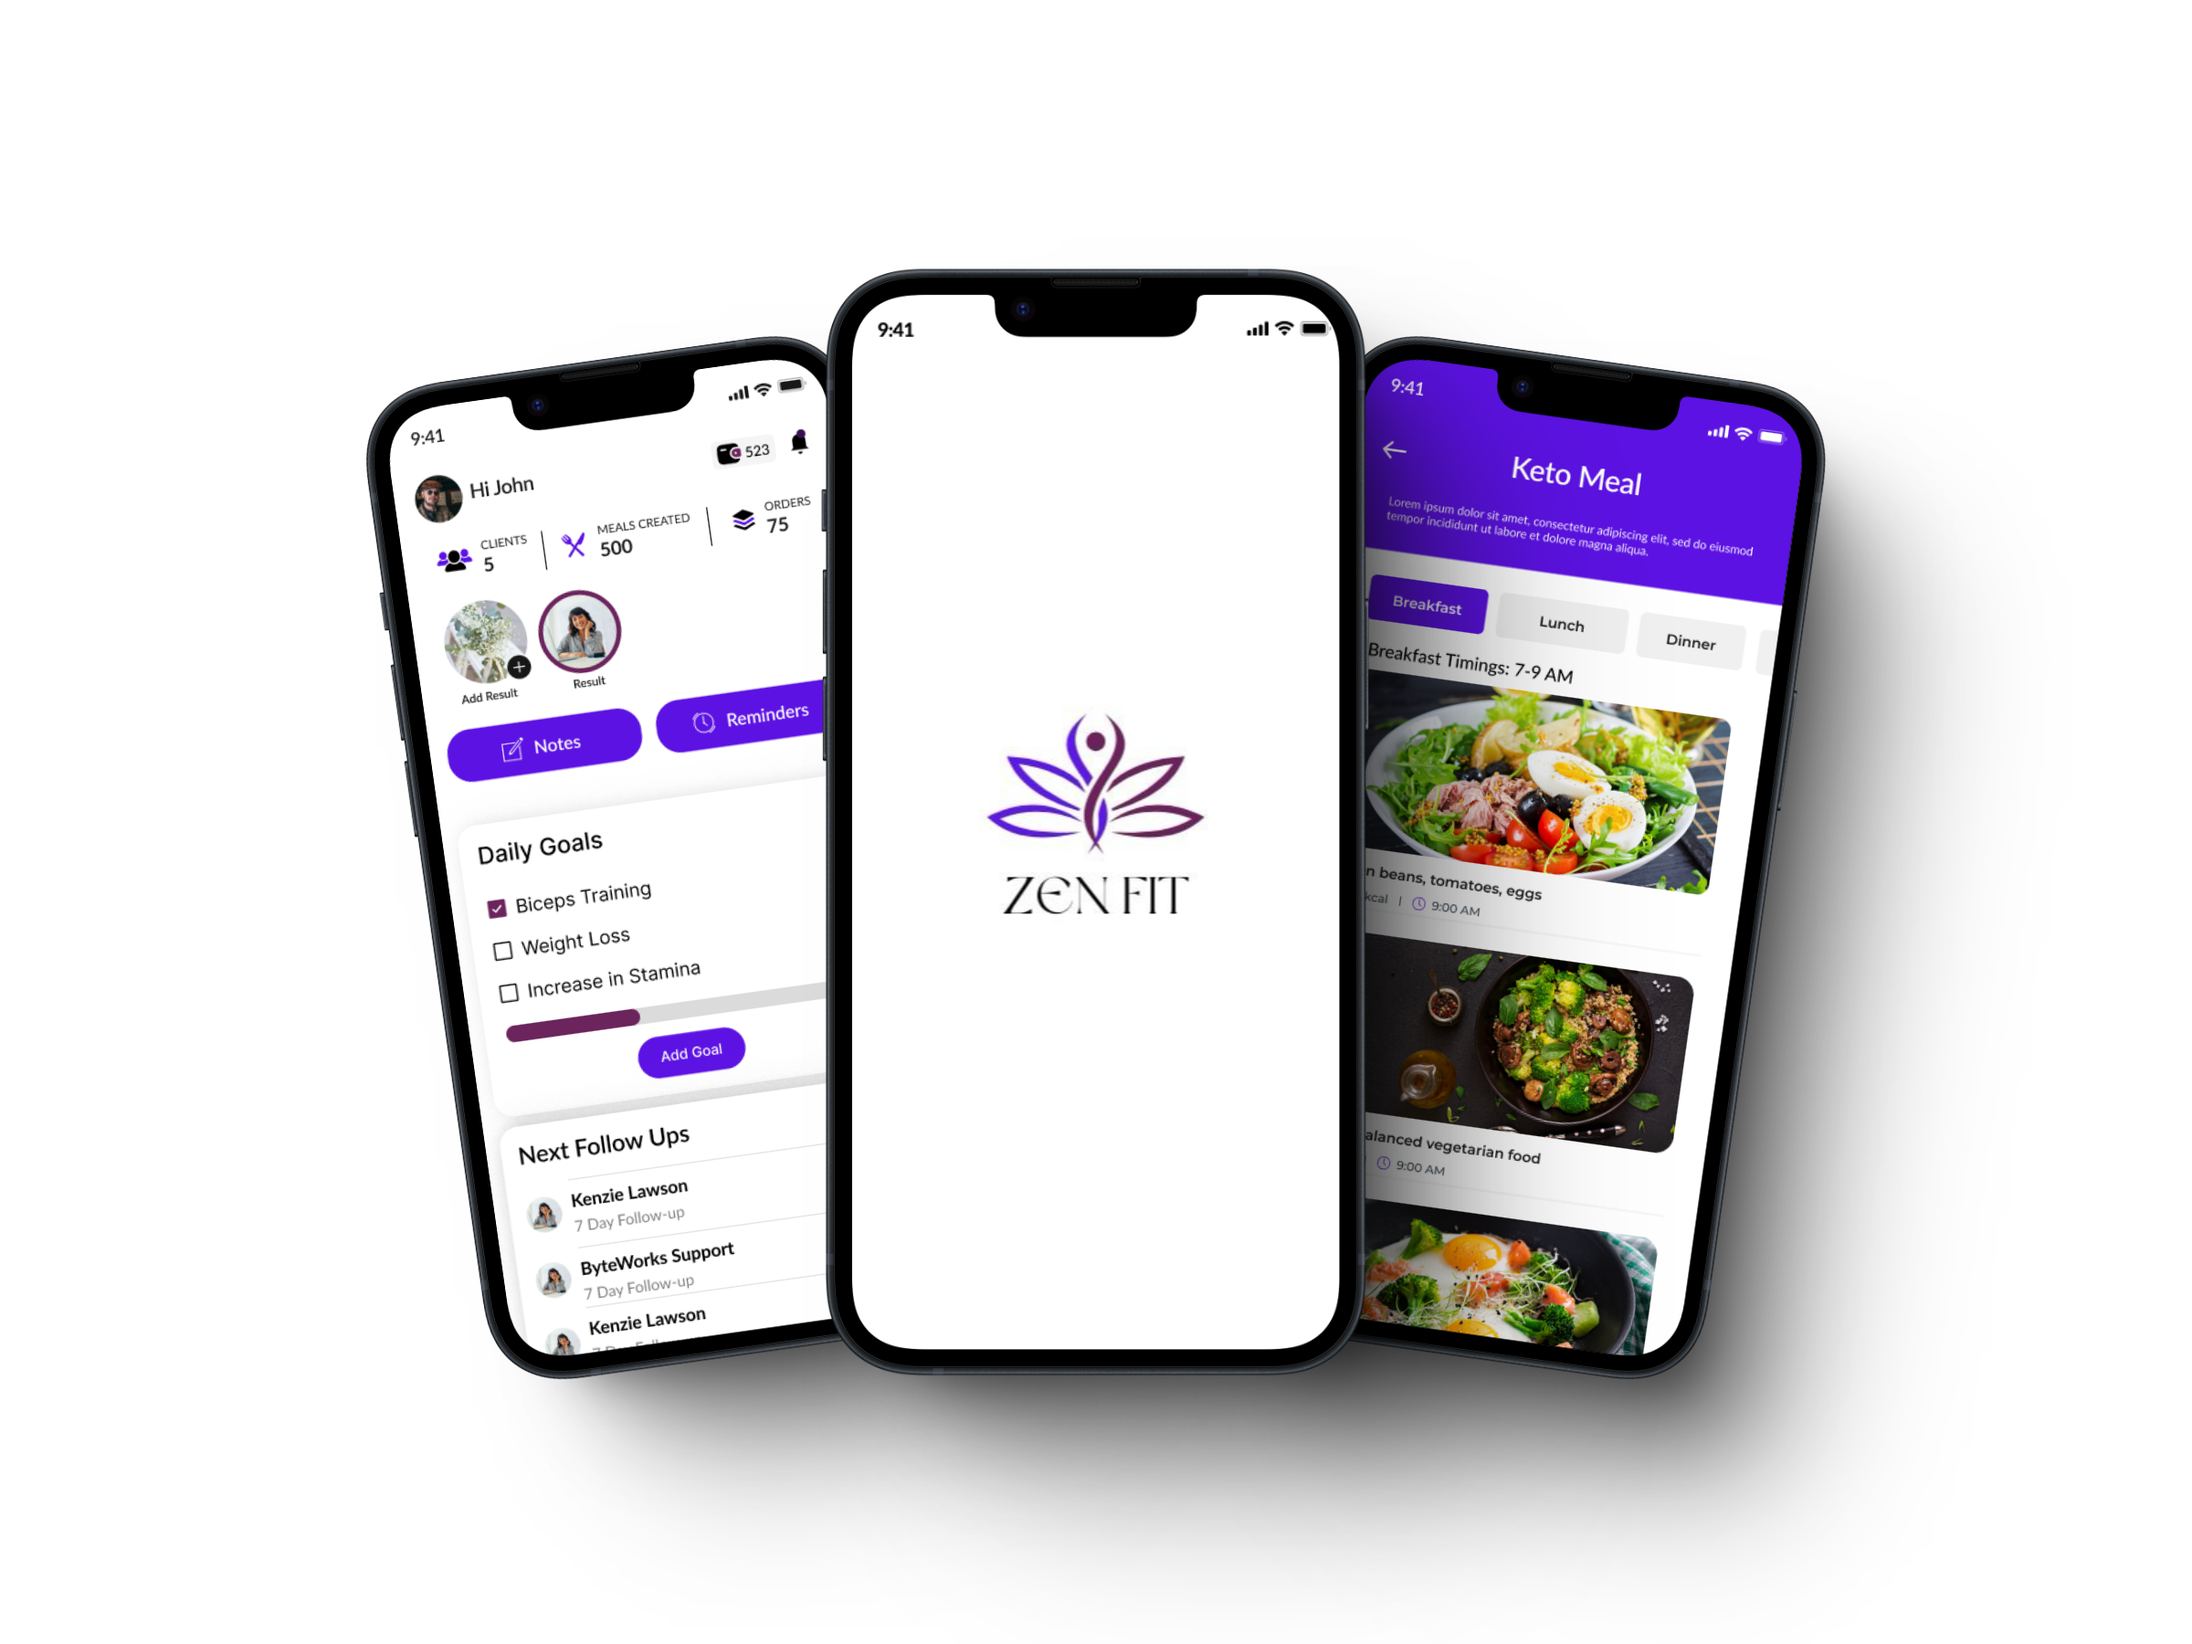
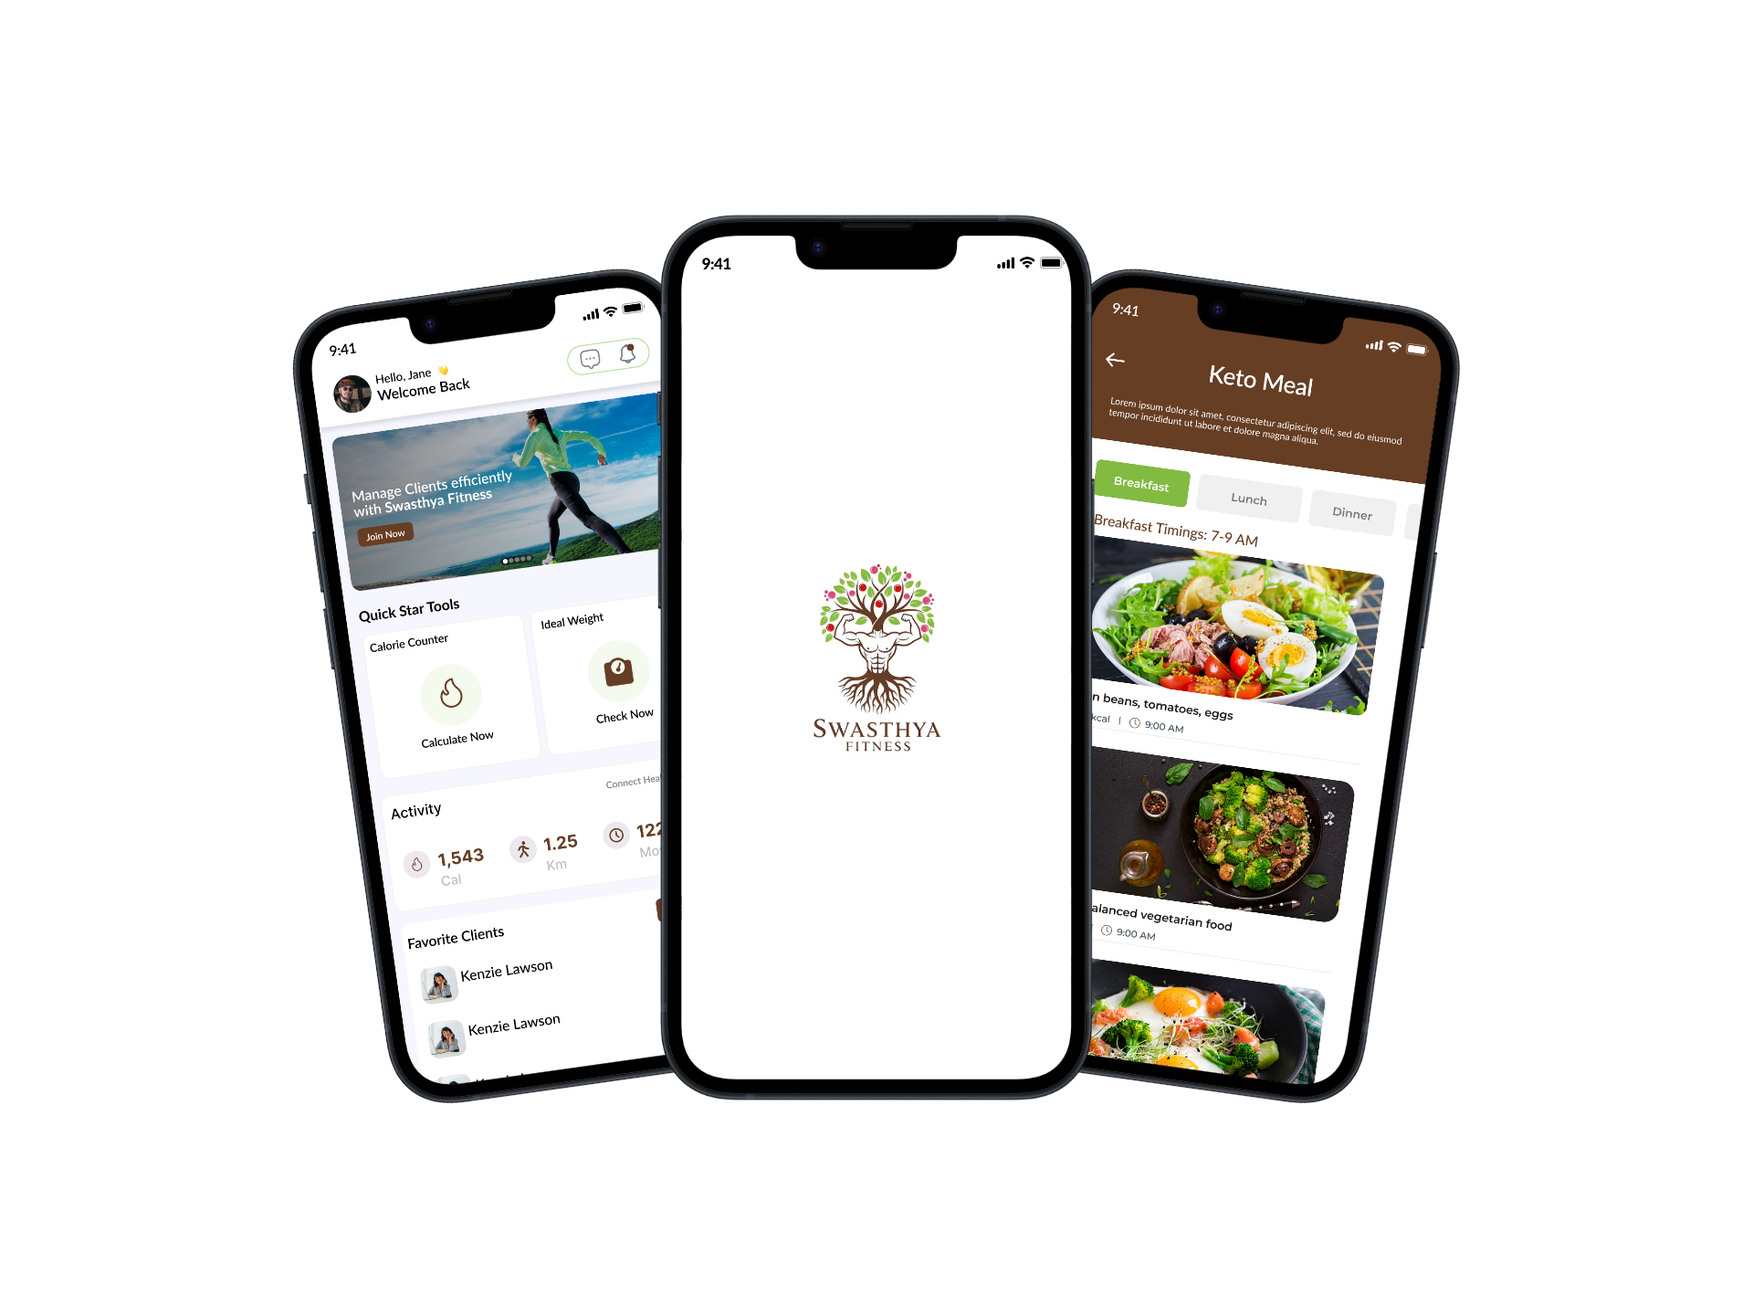
changes

Changed region(s): [[0.1875, 0.2188, 0.9062, 0.9375], [0.4375, 0.4375, 0.5625, 0.5625], [0.3438, 0.5, 0.375, 0.5312]]

diff --git a/src/app/app/page.jsx b/src/app/app/page.jsx
@@ -7,12 +7,12 @@ export default function Page() {
       <div className="lg:min-w-1/2 flex flex-col items-center lg:items-start lg:pl-6 md:mt-[10rem] lg:mt-0 text-center lg:text-left">
         <p className="text-sm md:text-xl mb-5 opacity-70 ">Begin your journey Towards Making People Healthy</p>
         <div className="flex justify-between items-center gap-5 mb-5">
-          <Link href="https://play.google.com/store/apps/details?id=com.wellnessz.zenfit&hl=en-us" target="_blank">
+          <Link href="https://play.google.com/store/apps/details?id=com.wellnessz.swasthya" target="_blank">
             <Image src="/playstore.png" alt="Google Store" width={150} height={40} className="cursor-pointer" />
           </Link>
-          <Link href="https://apps.apple.com/us/app/zenfit-app/id6743387199" target="_blank">
+          {/* <Link href="https://apps.apple.com/us/app/swasthya/id6743387199" target="_blank">
             <Image src="/appStore.png" alt="App Store" width={150} height={60} className="cursor-pointer" />
-          </Link>
+          </Link> */}
         </div>
       </div>
 

diff --git a/src/app/app/[...slug]/page.jsx b/src/app/app/[...slug]/page.jsx
@@ -10,12 +10,12 @@ export default function Page() {
         </h1>
         <p className="text-sm md:text-xl mb-5 opacity-70 ">Begin your journey Towards Making People Healthy</p>
         <div className="flex justify-between items-center gap-5 mb-5">
-          <Link href="https://play.google.com/store/apps/details?id=com.wellnessz.zenfit&hl=en-us" target="_blank">
+          <Link href="https://play.google.com/store/apps/details?id=com.wellnessz.swasthya" target="_blank">
             <Image src="/playstore.png" alt="Google Store" width={150} height={40} className="cursor-pointer" />
           </Link>
-          <Link href="https://apps.apple.com/us/app/zenfit-app/id6743387199" target="_blank">
+          {/* <Link href="https://apps.apple.com/us/app/zenfit-app/id6743387199" target="_blank">
             <Image src="/appStore.png" alt="App Store" width={150} height={60} className="cursor-pointer" />
-          </Link>
+          </Link> */}
         </div>
       </div>
 
